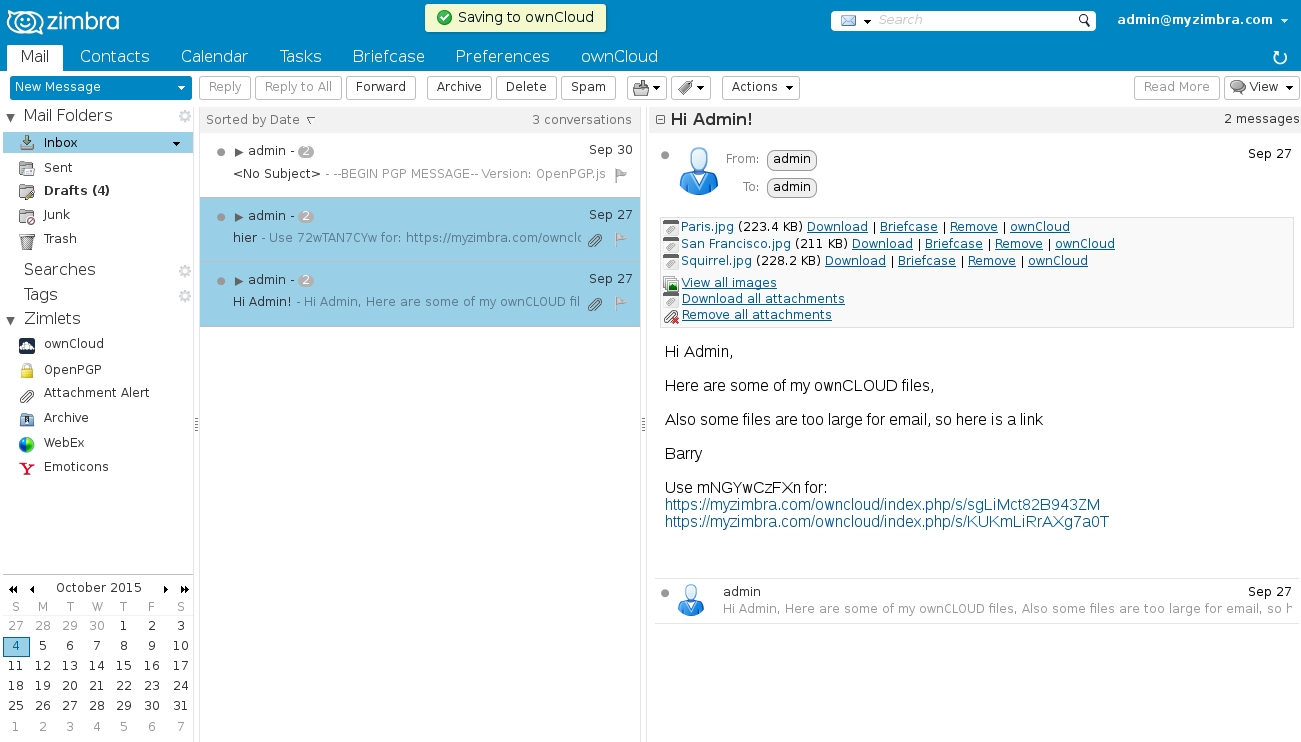
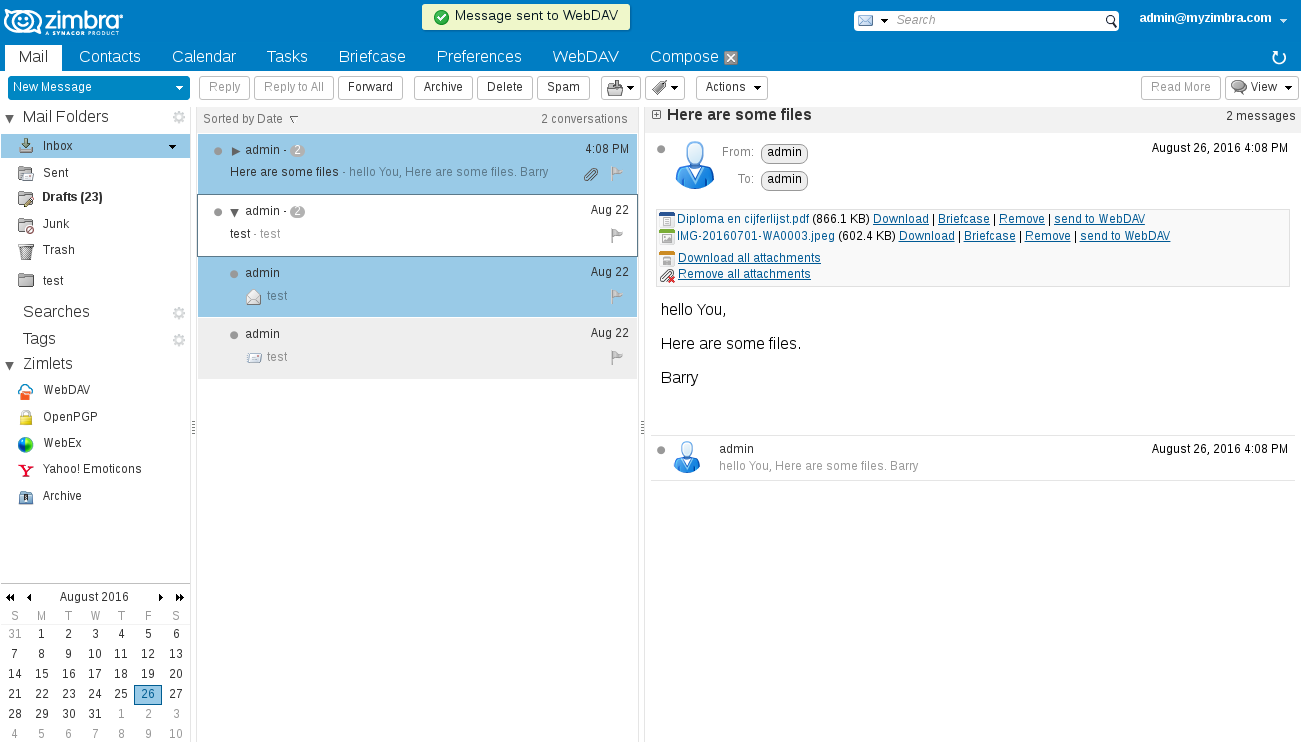
update Zimbra WebDAV Client user manual

diff --git a/owncloud/index.html b/owncloud/index.html
@@ -4,7 +4,7 @@
 <meta charset='utf-8'>
 <meta http-equiv="X-UA-Compatible" content="IE=edge">
 <link rel="shortcut icon" href="../icon.png" />
-<title>Zimbra ownCloud User Help</title>
+<title>Zimbra WebDAV User Help</title>
 
 <style type="text/css">
 h1
@@ -42,27 +42,27 @@ border: 1px solid #888888;
 
 <body style="font-family: sans-serif; font-size:14px;">    
 <div style="width:990px">
-<h1>Zimbra ownCloud Zimlet User Help</h1>
+<h1>Zimbra WebDAV Client User Help</h1>
 <h2>Contents</h2>
 <ul>
-<li><a href="#attach-from-owncloud">Sending attachments from ownCloud</a></li>
+<li><a href="#attach-from-owncloud">Sending attachments from WebDAV</a></li>
 <li><a href="#share-as-link">Sharing files with a public link</a></li>
-<li><a href="#emails-to-owncloud">Saving emails to ownCloud</a></li>
-<li><a href="#attachment-to-owncloud">Saving attachments to ownCloud</a></li>
-<li><a href="#briefcase-to-owncloud">Saving briefcase documents to ownCloud</a></li>
-<li><a href="#preferences">Configure ownCloud Zimlet</a></li>
-<li><a href="#about">About Zimbra ownCloud Zimlet</a></li>
+<li><a href="#emails-to-owncloud">Saving emails to WebDAV</a></li>
+<li><a href="#attachment-to-owncloud">Saving attachments to WebDAV</a></li>
+<li><a href="#briefcase-to-owncloud">Saving briefcase documents to WebDAV</a></li>
+<li><a href="#preferences">Configure WebDAV Client</a></li>
+<li><a href="#about">About Zimbra WebDAV Client</a></li>
 <li><a href="#licenses">License and third party FOSS libraries</a></li>
 </ul>
 <br>
 
 <br><br></section><section id="attach-from-owncloud">
-<h1>Sending attachments from ownCloud</h1>
-When composing email in Zimbra, you can attach files from ownCloud directly. Click the arrow next to <i>Attach</i>.<br>
+<h1>Sending attachments from WebDAV</h1>
+When composing email in Zimbra, you can attach files from WebDAV directly. Click the arrow next to <i>Attach</i>.<br>
 <br><img src="attach-menu.png" alt=""><br>
 <br>You can select files by checking them, also you can open folders by clicking on the blue folder icons. Click <i>Attach</i> when done.<br>
 <br><img src="attach-from-dialog.png" alt=""><br>
-<br>Attaching files may take some time, a progress round is displayed during this process. The message <i>Draft Saved</i> is displayed once your attachments are ready.<br>
+<br>Attaching files may take some time, a dialog is displayed during this process. The message <i>Draft Saved</i> is displayed once your attachments are ready.<br>
 <br><img src="attach-from-draft.png" alt=""><br>
 
 <hr><br>
@@ -74,71 +74,69 @@ Instead of sending files as attachments, you can also share file by means of a p
 <ul>
 <li>Link sharing does not work with <a target ="_blank" href="https://doc.owncloud.org/server/8.1/admin_manual/configuration_files/external_storage_configuration_gui.html">external storage</a> (Windows Shares)</li>
 <li>Link sharing may have been disabled by your administrator</li>
-<li>You can create only <a href="#link-share-exists">one public link for each file at a time</a></li>
+<li>This feature is only available if you use WebDAV Client with ownCloud and/or Nextcloud</li>
 </ul>
 
 Click the arrow next to <i>Attach</i>.<br>
 <br><img src="attach-menu.png" alt=""><br>
-<br>Select <i>Share as link</i><br>
+<br>Check the option <i>Add file as shared link</i>. You can also protect the shared link by typing a password in the <i>Optional password for shared link</i> field.<br>
 <br><img src="share-as-link-dialog.png" alt=""><br>
-<br>You can select files by checking them, also you can open folders by clicking on the blue folder icons. Click <i>Attach</i> when done.<br>
-<br><img src="share-as-link-dialog2.png" alt=""><br>
-<br>The selected files are displayed as links in the email body.<br>
+<br>You can select files by checking them, also you can open folders by clicking on the blue folder icons. Click <i>Attach</i> when done. The selected files are displayed as links in the email body.<br>
 <br><img src="share-as-link-result.png" alt=""><br>
-<section id="link-share-exists"><br>An exclamation mark appears for files that have already been shared with a public link. There can only be one public link defined for each file at a time. If you share the file again, a new link will be created, and the old link will no longer work.<br><br>  <img src="link-share-exists.png" alt=""><br></section
+</section
 <hr><br>
 
 
 <br><br></section><section id="emails-to-owncloud">
-<h1>Saving emails to ownCloud</h1>
-You can save emails including attachments to ownCloud by selecting them in your mailbox and drag and drop them on to the ownCloud panel.<br> Tip: You can select multiple emails by using the CTRL or SHIFT keys on your keyboard.<br>
+<h1>Saving emails to WebDAV</h1>
+You can save emails including attachments to WebDAV by selecting them in your mailbox and drag and drop them on to the WebDAV panel.<br> Tip: You can select multiple emails by using the CTRL or SHIFT keys on your keyboard.<br>
 <br><img src="multi-select.png" alt=""><br>
 <br><img src="drag-drop.png" alt=""><br>
-<br><img src="saving-multi-select.png" alt=""><br>
-<br>You can see the resulting files in ownCloud in the folder that is defined in your <a href="#preferences">preferences</a>. You can open EML files using an email client, for example Mozilla Thunderbird, Windows Essentials Mail or Apple Mail.<br>
+<br><img src="dodrop-saving.png" alt=""><br>
+<br>You can see the resulting files on the WebDAV server in the folder that is defined in your <a href="#preferences">preferences</a>. You can open EML files using an email client, for example Mozilla Thunderbird, Windows Essentials Mail or Apple Mail.<br>
 <br><img src="dodrop-result.png" alt=""><br>
 <hr><br>
 
 
 <br><br></section><section id="attachment-to-owncloud">
-<h1>Saving attachments to ownCloud</h1>
-You can save a single attachment by clicking on the <i>ownCloud</i> link that is displayed after each attachment in your inbox. The attachment is saved to ownCloud in the folder that is defined in your <a href="#preferences">preferences</a>.<br>
+<h1>Saving attachments to WebDAV</h1>
+You can save a single attachment by clicking on the <i>WebDAV</i> link that is displayed after each attachment in your inbox. The attachment is saved to WebDAV in the folder that is defined in your <a href="#preferences">preferences</a>.<br>
 <br><img src="save-attachment.png" alt=""><br>
 <hr><br>
 
 
 <br><br></section><section id="briefcase-to-owncloud">
-<h1>Saving briefcase documents to ownCloud</h1>
-You can save briefcase documents to ownCloud by selecting them from your briefcase and drag and drop them on to the ownCloud panel.<br> Tip: You can select multiple documents by using the CTRL or SHIFT keys on your keyboard.<br>
+<h1>Saving briefcase documents to WebDAV</h1>
+You can save briefcase documents to WebDAV by selecting them from your briefcase and drag and drop them on to the WebDAV panel.<br> Tip: You can select multiple documents by using the CTRL or SHIFT keys on your keyboard.<br>
 <br><img src="briefcase-drop.png" alt=""><br>
-<br>You can find your document in ownCloud in the folder that is defined in your <a href="#preferences">preferences</a>.<br>
+<br>You can find your document in WebDAV in the folder that is defined in your <a href="#preferences">preferences</a>.<br>
 <br><img src="briefcase-result.png" alt=""><br>
 <hr><br>
 
 
 <br><br></section><section id="preferences">
-<h1>Configure ownCloud Zimlet</h1>
-Find the ownCloud menu under <i>Zimlets</i> in your Zimbra web mail. Right click on ownCloud and select <i>Preferences</i>. <br>
+<h1>Configure WebDAV Client</h1>
+Find the WebDAV menu under <i>Zimlets</i> in your Zimbra web mail. Right click on WebDAV and select <i>Preferences</i>. <br>
 <br><img src="preferences-menu.png" alt=""><br>
 <br>
 <table>
-<tr><td>Username<sup>1</sup></td><td>Your ownCloud username, is set to your Zimbra username by default</td></tr>
-<tr><td>Password<sup>1</sup></td><td>Your ownCloud password</td></tr>
-<tr><td>Store password<sup>2</sup></td><td>If checked, the password is stored in plain text in Zimbra LDAP. If not checked you have to provide password for each session</td></tr>
-<tr><td><b>Default folder</b></td><td><b>Destination folder in ownCloud when saving emails, attachments and documents from Zimbra</b>
+<tr><td>Username</td><td>Your WebDAV username, is set to your Zimbra username by default</td></tr>
+<tr><td>Password</td><td>Your WebDAV password</td></tr>
+<tr><td>Store password<sup>1</sup></td><td>If checked, the password is stored in plain text in Zimbra LDAP. If not checked you have to provide password for each session</td></tr>
+<tr><td><b>Default folder</b></td><td><b>Destination folder in WebDAV when saving emails, attachments and documents from Zimbra</b>
 <br>The folder is automatically created when you click <i>OK</i>.</td></tr>
 </table>
 <br>
-<sup>1</sup> Your administrator may have configured <a href="https://github.com/barrydegraaff/owncloud-zimlet/blob/master/sso/Zimbra%20ownCloud%20Single-Sign-On.md">Single-Sign-On</a>, in that case you don't need to configure your username and password. <br>
-<sup>2</sup> <i>Store password</i> may have been disabled by your administrator.
+<sup>1</sup> <i>Store password</i> may have been disabled by your administrator.
 <br>
 <br><img src="preferences.png" alt=""><br>
-<br><img src="ownCloudTab.png" alt=""><br>
+The other fields should be automatically filled with correct details by your system administrator.
+<br>
 
 <br><br></section><section id="about">
-<h1>Zimbra ownCloud Zimlet</h1>If you find Zimbra ownCloud Zimlet useful and want to support its continued development, you can make donations via:
+<h1>Zimbra WebDAV Client</h1>If you find Zimbra WebDAV Client useful and want to support its continued development, you can make donations via:
 <ul>
-<li>PayPal: <a href="https://www.paypal.com/cgi-bin/webscr?cmd=_donations&amp;business=info%40barrydegraaff%2etk&amp;lc=US&amp;item_name=Zimbra ownCloud%20Zimlet&amp;no_note=0&amp;currency_code=EUR&amp;bn=PP%2dDonationsBF%3abtn_donateCC_LG%2egif%3aNonHostedGuest">info@barrydegraaff.tk</a></li>
+<li>PayPal: <a href="https://www.paypal.com/cgi-bin/webscr?cmd=_donations&amp;business=info%40barrydegraaff%2etk&amp;lc=US&amp;item_name=Zimbra WebDAV%20Client&amp;no_note=0&amp;currency_code=EUR&amp;bn=PP%2dDonationsBF%3abtn_donateCC_LG%2egif%3aNonHostedGuest">info@barrydegraaff.tk</a></li>
 <li>Bank transfer: IBAN NL55ABNA0623226413 ; BIC ABNANL2A</li>
 </ul>
 Please report <a href="https://github.com/barrydegraaff/owncloud-zimlet/issues">bugs</a>
@@ -154,10 +152,10 @@ Please report <a href="https://github.com/barrydegraaff/owncloud-zimlet/issues">
 
 <br><br></section><section id="licenses" style="width:650px">
 <h1>License and third party FOSS libraries</h1>
-Copyright (C) 2015&nbsp; Barry de Graaff 
+Copyright (C) 2015-2016 Barry de Graaff Zeta Alliance, Michele Olivo ZeXtras
 <br><br>This program is free software: you can redistribute it and/or modify
 <br> it under the terms of the GNU General Public License as published by
-<br> the Free Software Foundation, either version 2 of the License, or
+<br> the Free Software Foundation, either version 3 of the License, or
 <br> (at your option) any later version.
 <br> <br> This program is distributed in the hope that it will be useful,
 <br> but WITHOUT ANY WARRANTY; without even the implied warranty of
@@ -167,10 +165,6 @@ Copyright (C) 2015&nbsp; Barry de Graaff
 <br> along with this program.&nbsp; If not, see <a href="http://www.gnu.org/licenses/">http://www.gnu.org/licenses/</a>.
 <br>
 <br><br>
-<b>davclient.js - Low-level JavaScript WebDAV client implementation</b><br>
-Copyright (C) Sven vogler under terms of the GNU General Public License version 2<br><br>
-
-<b>ownCloud and the ownCloud Logo are a registered trademark of ownCloud, Inc.</b><br><br>
 
 <b>com_zimbra_attachmail, com_zimbra_dnd</b>
 <br>Zimbra Collaboration Suite Zimlets - Copyright (C) 2009, 2010, 2011, 2012, 2013, 2014 Zimbra, Inc.
@@ -189,8 +183,8 @@ Copyright (C) Sven vogler under terms of the GNU General Public License version 
 <br>The Initial Developer of the Original Code is Zimbra, Inc. 
 <br>All portions of the code are Copyright (C) 2009, 2010, 2011, 2012, 2013, 2014 Zimbra, Inc. All Rights Reserved. <br><br>
 
-<b>Icons ans logo</b><br>
-Icons and logo where taken from the tango-icon-theme package and where released to the Public Domain by the Tango Desktop Project.<br>
+<b>Logo</b><br>
+Copyright (C) 2016 Jorge de la Cruz.<br>
 <br><br>
 </section>
 <br>
